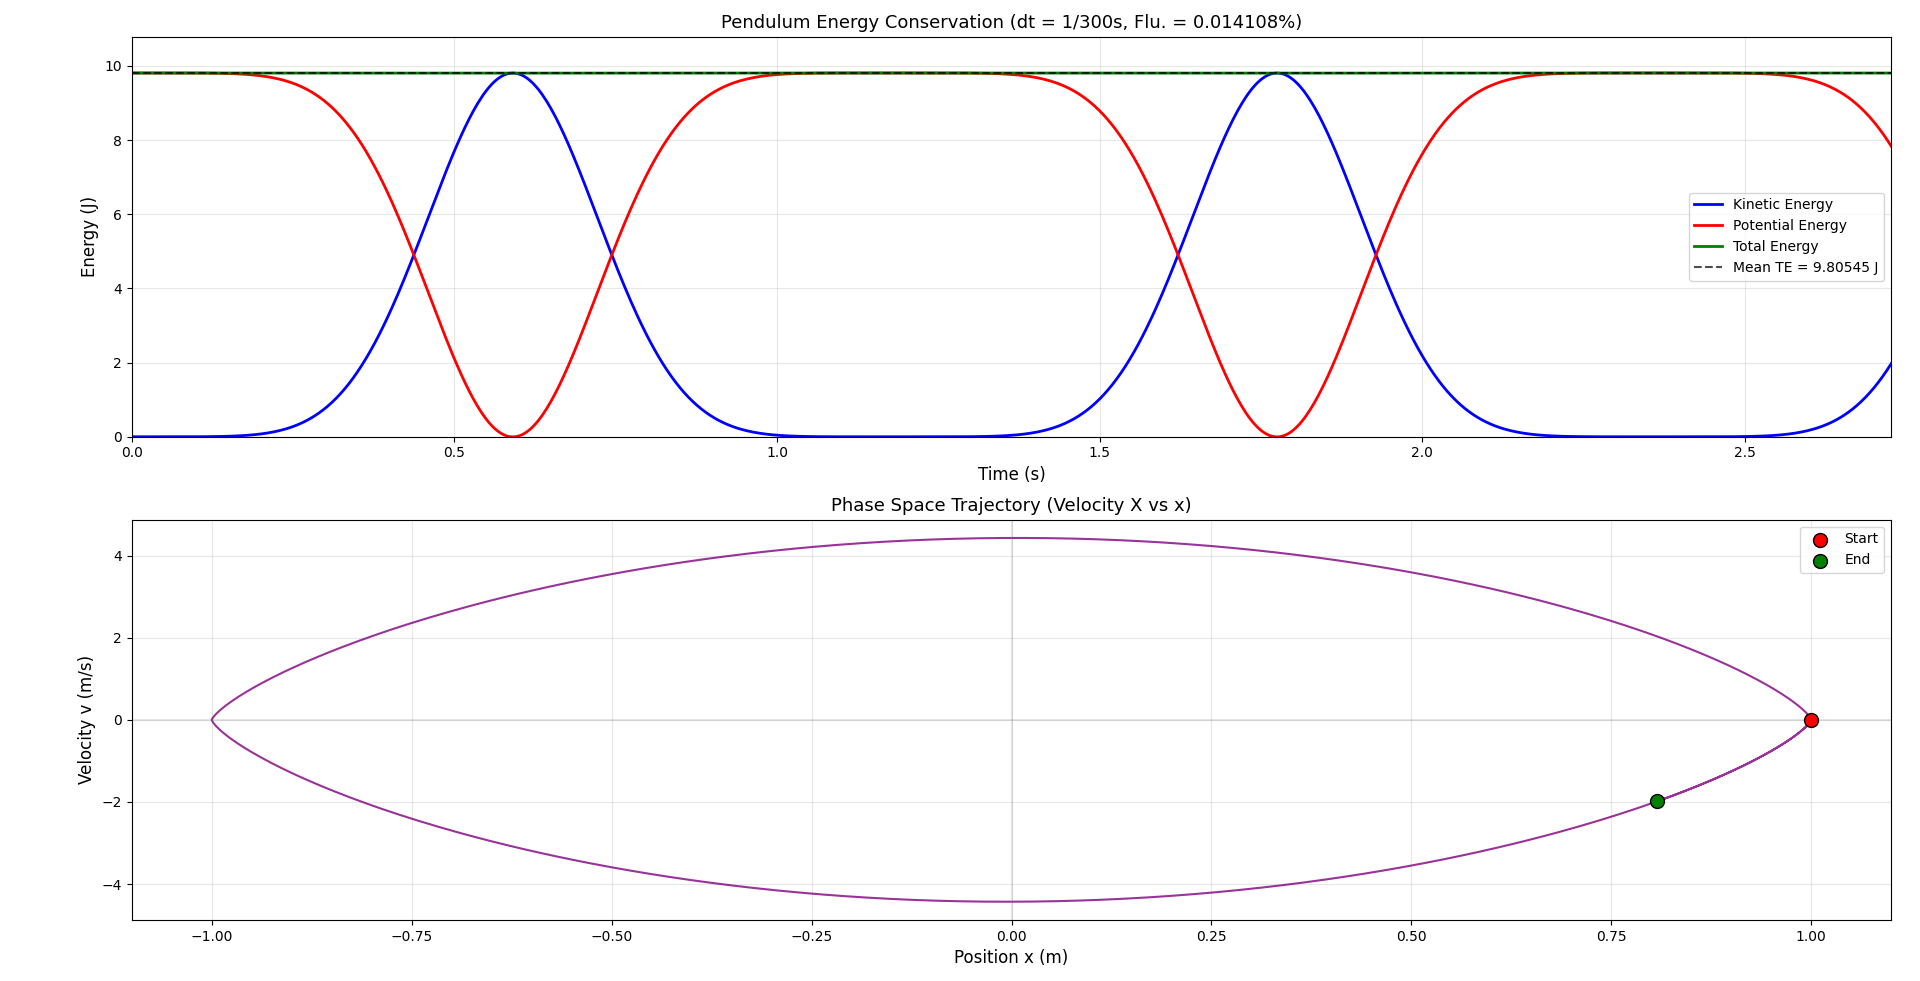
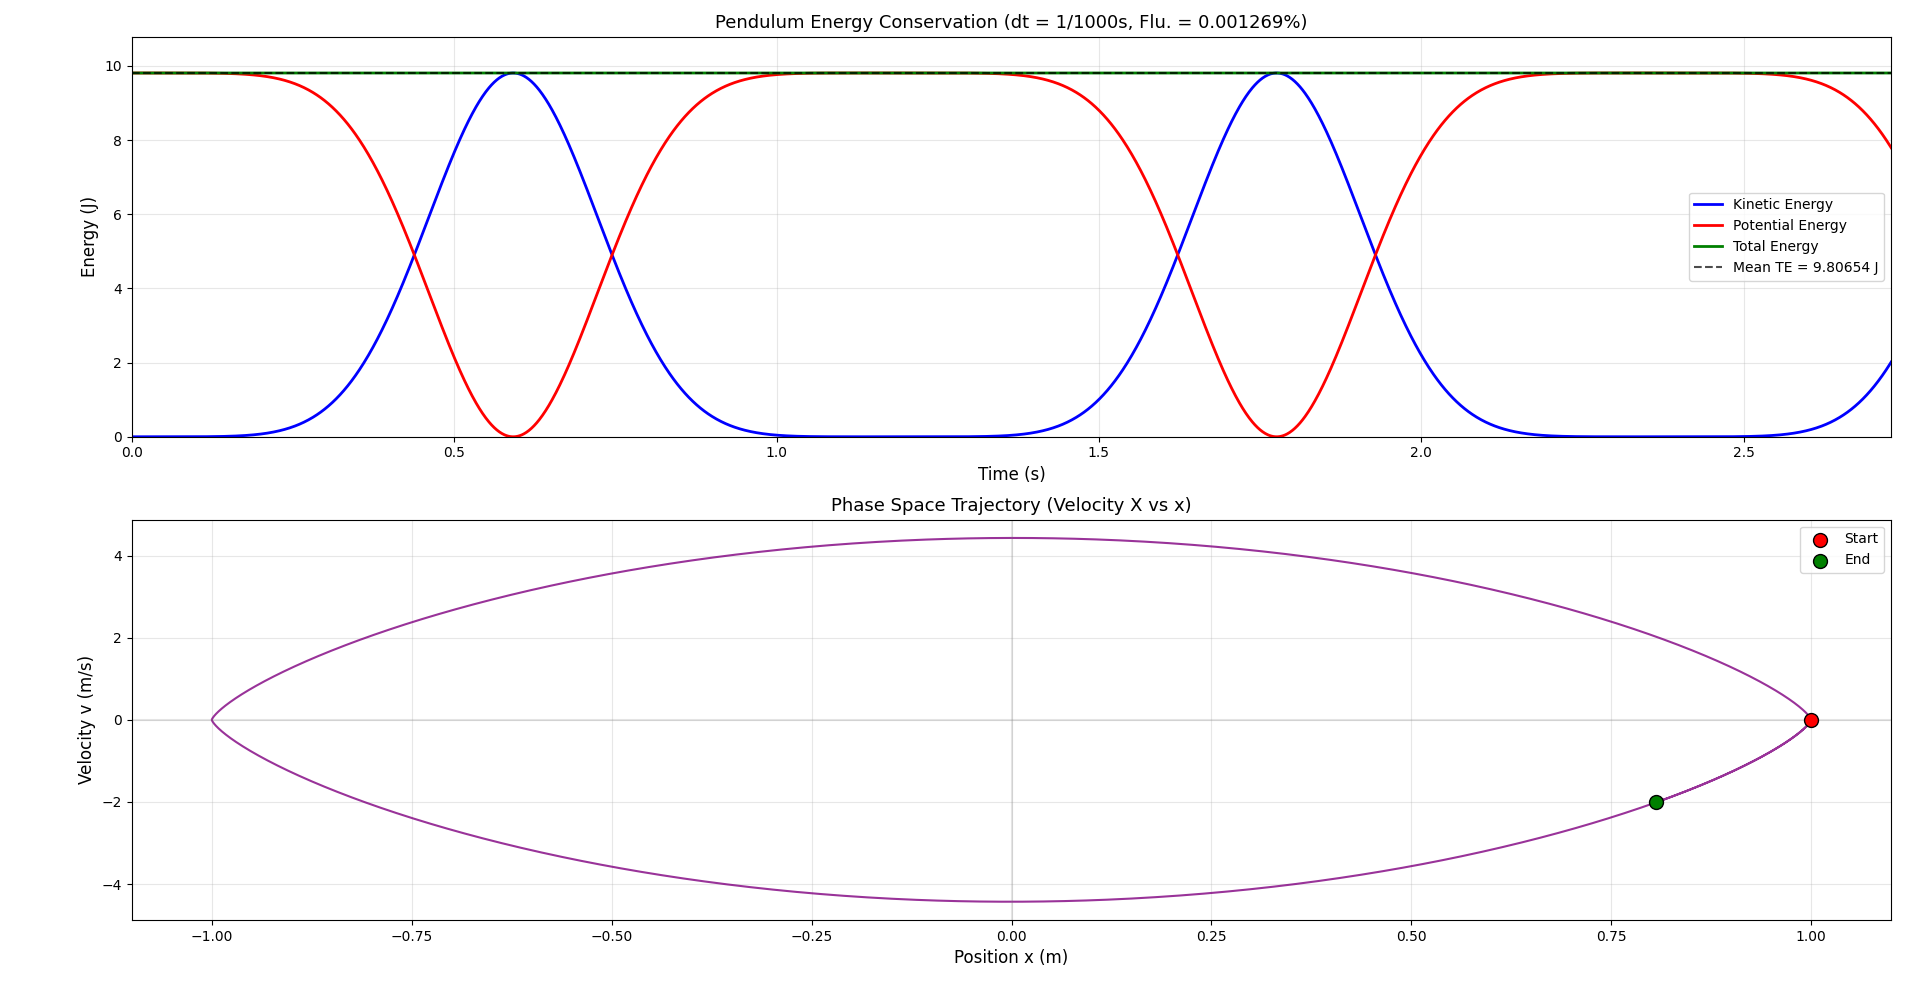
docs(readme): expand table of contents with new sections

diff --git a/include/Phyth/Tools/Vector3.hpp b/include/Phyth/Tools/Vector3.hpp
@@ -1,10 +1,10 @@
 #ifndef PHYTH_VECTOR3_HPP
 #define PHYTH_VECTOR3_HPP
 
-#include "../Core/Dimension.hpp"
-#include "../Core/Quantity.hpp"
+#include "Phyth/Core/Dimension.hpp"
+#include "Phyth/Core/Quantity.hpp"
 #include "QuantityFuncs.hpp"
-#include "../Core/Units.hpp"
+#include "Phyth/Core/Units.hpp"
 
 #include <ostream>
 

diff --git a/examples/SinglePendulum.cpp b/examples/SinglePendulum.cpp
@@ -4,7 +4,7 @@
 using namespace Phyth;
 using namespace Phyth::Mechanics;
 
-constexpr Quantity<Second> DELTA_TIME = 1_s / 300;
+constexpr Quantity<Second> DELTA_TIME = 1_s / 1000;
 
 int main() {
     const auto anchor_point = std::make_shared<Particle>(1_kg, Vector3{0_m, 0_m, 0_m});

diff --git a/include/Phyth/Elements/Mechanics/MechanicsFormulas.hpp b/include/Phyth/Elements/Mechanics/MechanicsFormulas.hpp
@@ -1,7 +1,7 @@
 #ifndef PHYTH_MECHANICS_FORMULAS_HPP
 #define PHYTH_MECHANICS_FORMULAS_HPP
 
-#include "Phyth/Core/FormulaSolver.hpp"
+#include "Phyth/Tools/FormulaSolver.hpp"
 #include "Phyth/System/Config.hpp"
 
 namespace Phyth {

diff --git a/include/Phyth/Tools/Tools.hpp b/include/Phyth/Tools/Tools.hpp
@@ -3,5 +3,6 @@
 
 #include "Vector3.hpp"
 #include "QuantityFuncs.hpp"
+#include "FormulaSolver.hpp"
 
 #endif //PHYTH_TOOLS_HPP

diff --git a/README.md b/README.md
@@ -12,8 +12,15 @@
 - [Description](#description)
 - [Features](#features)
 - [Positioning](#positioning)
+- [Requirements](#requirements)
 - [Installation](#installation)
 - [Quick Start](#quick-start)
+- [Accuracy Verification](#accuracy-verification)
+- [Project Struct](#project-struct)
+- [FAQ](#faq)
+- [Known Limitations](#known-limitations)
+- [Contributing](#contributing)
+- [Acknowledgments](#acknowledgments)
 
 ## Description
 Phyth is a C++ simulation library designed for numerical method researchers. 
@@ -45,13 +52,13 @@ making it easy to verify physical conservation laws during simulation and simpli
 
 Existing physics engines sit at two extremes:
 
-|                   | Industrial Engines            | Scientific Engines                |
-|-------------------|-------------------------------|-----------------------------------|
-| **Speed**         | ✅ Fast                       | ⚠ Slow                           |
-| **Robustness**    | ✅ Battle-tested              | ⚠ Academic                       |
-| **Transparency**  | ❌ Black box (stages fused)   | ✅ Exposed internals              |
-| **Modifiability** | ❌ Fixed solver, hard to swap | ⚠ Heavy codebase, hard to modify |
-| **Dependencies**  | ✅ Minimal                    | ❌ Heavy dependency graph         |
+|                   | Industrial Engines            | Scientific Engines                 |
+|-------------------|-------------------------------|------------------------------------|
+| **Speed**         | ✅ Fast                       | ⚠ Slow                            |
+| **Robustness**    | ✅ Battle-tested              | ⚠ Academic                        |
+| **Transparency**  | ❌ Black box (stages fused)   | ✅ Exposed internals               |
+| **Modifiability** | ❌ Fixed solver, hard to swap | ⚠ Heavy codebase, hard to modify  |
+| **Dependencies**  | ✅ Minimal                    | ❌ Heavy dependency graph          |
 
 **Phyth sits right in the middle:**
 
@@ -65,11 +72,26 @@ easy to build, modify, and experiment with.
 **In short**, Phyth gives researchers the freedom to develop new numerical methods, 
 without the friction of production-level complexity or academic-level baggage.
 
+## Requirements
+
+- **C++17** or higher
+- **Compiler**: GCC 9+, Clang 10+, MSVC 19.20+ (Visual Studio 2019+)
+
+### Platform Support
+
+Phyth is a header-only library with **no third-party dependencies** and **no platform-specific system calls**.
+It relies exclusively on the C++ standard library, making it portable across platforms.
+
+| Platform | Compiler           | Status                |
+|----------|--------------------|-----------------------|
+| Linux    | GCC 9+, Clang 10+  | ✅ CI-tested          |
+| Windows  | MSVC 19.20+, MinGW | ✅ Verified           |
+| macOS    | Apple Clang 13+    | ⚠ Expected to work   |
+
+> **Note**: If you use Phyth on an untested platform and encounter issues,
+> please [file an issue](https://github.com/Bg-cr/Phyth/issues/new) — we'll help investigate.
+
 ## Installation
-
-### Prerequisites
-
-- C++17 or higher
 
 #### Clone the Repository
 
@@ -154,4 +176,97 @@ If the above code is run, the total energy at each moment should be approximatel
 In fact, after running and analysis the data, it can be concluded that the relative fluctuation within `2.73s` is approximately `1.32e-5`, 
 which confirms that the integrator and constraint solver are working properly.
 
+## Accuracy Verification
 
+The first [image](examples/SinglePendulumAnalysis.png) is the analysis
+(based on the [Quick Start](#quick-start) code with detailed output): 
+
+![SinglePendulumAnalysis.png](examples/SinglePendulumAnalysis.png)
+
+The latest [image](examples/DoublePendulumAnalysisDt5e-3.png) below shows the data analysis of the double pendulum simulation
+(dt=5e-3 s and sample 1000 points), and the calculated relative fluctuation is about 1.37e-3%(1.37e-5):
+
+![DoublePendulumAnalysisDt5e-3.png](examples/DoublePendulumAnalysisDt5e-3.png)
+
+## Project Struct
+Below is the project tree diagram and introduction: 
+```
+F:.
+├─examples
+├─include
+│  └─Phyth
+│      ├─Core
+│      ├─Elements
+│      │  ├─Electromagnetics
+│      │  │  └─ChargeSources
+│      │  └─Mechanics
+│      ├─Physical
+│      ├─System
+│      └─Tools
+└─Phyth
+```
+
+- `example/` — Examples, like `SinglePendulum.cpp`
+- `Phyth/include/`
+  - `Core/` — Compile-time dimensional analysis system
+  - `Elements/` — Physics building blocks (mechanics + electromagnetics)
+  - `Physical/` — Constants like `g`, `G`, `epsilon_0`
+  - `Tools/` — Tools such as `Vector3` and helper functions
+
+## FAQ
+**Q: Is dimensionality checking performed during compilation or at runtime? Is it zero-cost?**
+
+A: Compile-time. In Release mode, `Quantity<T, Dim>` has a memory layout identical to that of a native `double`, with zero runtime overhead.
+
+**Q: Can units in a parallel relationship be transformed into each other?**
+
+A: Yes. For example, for `N*m` and `J`, the dimensional system will automatically deduce the units, 
+while the unit labels will retain the original semantics.
+The display format is managed by `UnitsRegistry` to ensure that the physical meaning is not lost during output.
+
+**Q: Is electromagnetic field an analytical solution or a numerical solution?**
+
+Numerical integration. The electric field and potential are approximately calculated by dividing 
+a rectangular prism into volume elements and superimposing Coulomb fields on each volume element. 
+The accuracy is comparable to the analytical formula, but the speed is not very fast. 
+This is the implementation decision of the current version - prioritizing code clarity over computational efficiency.
+
+**Q: What physics can be considered at present?**
+
+- Mechanics: Particle, Spring, Distance Constraint (Single/Double Pendulum Verified)
+- Electromagnetics: Calculation of point/line/surface/bulk charges, electric dipoles, and electrostatic fields
+> Note: Thermodynamics and time-varying electromagnetic fields are not supported in the current version of the roadmap.
+
+## Known Limitations
+
+- **Performance**: Electromagnetic field calculations use direct summation over volume elements . For large-scale 3D simulations, this may be slow.
+- **No GPU acceleration**: All computations are CPU-bound in the current version.
+- **No collision detection**: Phyth focuses on dynamics and field calculations, not contact mechanics.
+- **No automatic differentiation**: Gradients must be computed manually if needed for optimization.
+
+
+## Contributing
+
+We welcome contributions from researchers, students, and developers!
+
+### How to Contribute
+
+1. **Report bugs or request features** → Use our [Issue Templates](https://github.com/Bg-cr/Phyth/issues/new/choose)
+2. **Submit code changes** → Fork the repo, create a branch, and open a Pull Request
+3. **Suggest new physics modules** → Start a Discussion
+
+### Guidelines
+
+- All new formulas must include validation tests (compare against analytical solutions)
+- Follow [Google C++ Style Guide](https://google.github.io/styleguide/cppguide.html)
+- Write descriptive commit messages
+
+See [CONTRIBUTING.md](CONTRIBUTING.md) for full details.
+
+## Acknowledgments
+
+Phyth's dimensional analysis system draws inspiration from:
+- [Boost.Units](https://www.boost.org/doc/libs/1_85_0/doc/html/boost_units.html) — compile-time dimensional analysis in C++
+- The foundational work on dimensional analysis by Buckingham and Bridgman
+
+The validation framework was inspired by best practices in computational physics education.

diff --git a/CONTRIBUTING.md b/CONTRIBUTING.md
@@ -1,0 +1,173 @@
+# Contributing to Phyth
+
+Thanks for your interest in contributing to Phyth!
+Whether you're a researcher, student, or developer, all contributions are welcome.
+
+---
+
+## Table of Contents
+
+- [Ways to Contribute](#ways-to-contribute)
+- [Code Style](#code-style)
+- [How to Add a New Feature](#how-to-add-a-new-feature)
+- [Validation Requirements](#validation-requirements)
+- [Commit Messages](#commit-messages)
+- [Pull Request Process](#pull-request-process)
+- [Getting Help](#getting-help)
+
+---
+
+## Ways to Contribute
+
+- **Report a bug** → Use the [Bug Report template](https://github.com/Bg-cr/Phyth/issues/new/choose)
+- **Propose a feature** → Use the [Feature Request template](https://github.com/Bg-cr/Phyth/issues/new/choose)
+- **Add a new physics module** → See [How to Add a New Feature](#how-to-add-a-new-feature)
+- **Improve documentation** → Fix typos, add examples, clarify comments
+- **Share your use case** → Start a [Discussion](https://github.com/Bg-cr/Phyth/discussions)
+
+---
+
+## Code Style
+
+Phyth uses a **lightweight** set of conventions (no need to memorize a 100-page guide):
+
+### Naming
+
+| Type                    | Style               | Example                                            |
+|-------------------------|---------------------|----------------------------------------------------|
+| **Classes / Structs**   | `PascalCase`        | `Particle`, `DistanceConstrainer`, `ElectricField` |
+| **Functions / Methods** | `PascalCase`        | `GetTotalEnergy()`, `ApplyForce()`, `Integrate()`  |
+| **Variables**           | `snake_case`        | `delta_time`, `anchor`, `pendulum_mass`            |
+| **Constants**           | `k` + `PascalCase`  | `kSpeedOfLight`, `kGravitationalConstant`          |
+| **Files**               | `PascalCase.hpp`    | `Quantity.hpp`, `Spring.hpp`, `ElectricField.hpp`  |
+| **Namespaces**          | `lowercase`         | `Phyth::Mechanics`, `Phyth::Electromagnetics`      |
+
+### Headers
+
+- Use header guard(```#ifdef #define ... #endif```) and not to use `#pragma once`.
+- Order includes: **project headers → standard library headers**
+- Keep headers minimal — only include what you need
+
+```cpp
+// Good
+#include "Phyth/Core/Quantity.hpp"
+#include "Phyth/Tools/Vector3.hpp"
+#include <memory>
+#include <vector>
+```
+```cpp
+// Avoid
+#include <bits/stdc++.h>  // No!
+```
+
+### Comments
+- Use `//` for line comments
+
+- Document public APIs with `///` or `/** ... */`
+
+- Focus on why, not what (the code already says what it does)
+
+```cpp
+/// Computes gravitational force between two particles.
+/// Uses Newton's law of universal gravitation: F = G * m1 * m2 / r^2
+Force ComputeGravity(const Particle& a, const Particle& b);
+```
+
+---
+
+## How to Add a New Feature
+1. Open an issue first to discuss the feature (avoid wasted work)
+
+2. Fork the repository
+
+3. Create a branch from `main`: `git checkout -b feature/your-feature-name`
+
+4. Implement the feature
+
+5. Add validation tests (see below)
+
+6. Update documentation (if needed)
+
+7. Push and open a Pull Request
+
+---
+
+## Validation Requirements
+**All new physics modules must include validation tests.**
+
+This is non-negotiable — Phyth is a research-oriented library, and users need to trust the results.
+
+### What to include
+Compare against analytical solutions (preferred) or known benchmarks
+
+Add test code to `examples/`
+
+Document the test case and results in the PR description
+
+### Example format
+```cpp
+// examples/SpringOscillation.cpp
+// Validates simple harmonic motion: T = 2π * sqrt(m/k)
+// Expected: T = 2.0s for m=1kg, k=π² N/m
+// Measured: T = 2.00001s → relative error < 1e-5
+```
+
+### Commit Messages
+Write commit messages in imperative mood:
+
+```text
+Add Coulomb's law validation test
+Fix energy drift in spring constraint
+Update documentation for Quantity class
+```
+
+**Format**:
+
+- First line: ≤ 72 characters, summary of what changed
+
+- Blank line
+
+- (Optional) Detailed description and reasoning
+
+```text
+Add adaptive time-step integration
+
+Current fixed-step integrator fails for stiff systems.
+This adds Runge-Kutta-Fehlberg (RKF45) with automatic step-size control.
+Fixes #100
+```
+
+---
+
+## Pull Request Process
+1. **PR title**: Brief summary of the change
+
+2. **PR description**: What does this do? Why? Any breaking changes?
+
+3. **CI**: All checks must pass (build + tests)
+
+4. **Review**: At least one maintainer reviews the code
+
+5. **Merge**: Squash and merge (or rebase)
+
+### PR Checklist
+□ Code follows style guidelines
+□ Added validation tests (if new physics)
+□ Updated documentation (if API changed)
+□ All CI checks pass
+
+---
+
+## Getting Help
+Open a [Discussion](https://github.com/Bg-cr/Phyth/discussions) for questions
+
+Tag `@Bg-cr` in issues for maintainer attention
+
+For urgent issues, email: `[your-email]`
+
+---
+
+## License
+By contributing, you agree that your contributions will be licensed under the [MIT License](LICENSE).
+
+Thank you for helping make Phyth better!
